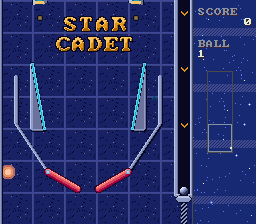
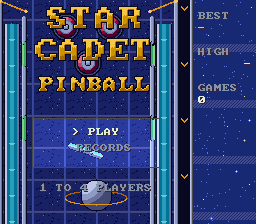
Star Cadet Pinball step 8: balance and release (aimable shots, no traps, missions that wait for the next ball, an aiming bot, new slingshot art, label, README row, playbook section 11)
Claude-Session: https://claude.ai/code/session_01Nc4JskrxPXMSXcsQP1Fakb

diff --git a/carts/src/star-cadet/code.js b/carts/src/star-cadet/code.js
@@ -646,7 +646,7 @@ function draw() {
   if (!inPlay && !menu) { bg(0, { show: false }); bg(1, { show: false }); }
   bg(2, { y: Math.round(clock * 0.25) });
   if (inPlay) drawPlay();
-  else if (menu) { drawTable(Math.round(208 + 208 * Math.sin(clock / 300))); drawMenuPanel(); if (state === 'title') drawTitle(); else drawPlayers(); }
+  else if (menu) { drawTable(Math.round(96 + 96 * Math.sin(clock / 300))); drawMenuPanel(); if (state === 'title') drawTitle(); else drawPlayers(); }
   else if (state === 'initials') drawInitials();
   else if (state === 'records') drawRecords();
   if (state === 'turn') drawTurn();

diff --git a/docs/carts/star-cadet.md b/docs/carts/star-cadet.md
@@ -1,7 +1,7 @@
 # Star Cadet Pinball: Cart Specification
 
-**Version:** 0.2 (spec agreed in outline)
-**Status:** Spec written; scaffolded, the game is still the starter's placeholder
+**Version:** 1.0
+**Status:** Built (steps 1 to 8), released in the Library
 **Cart source:** `carts/src/star-cadet/` → `carts/star-cadet.nova`
 
 ---
@@ -180,7 +180,7 @@ BG0 the table (a Map RAM scene of 24 x 80 tiles scrolled by the camera), BG1 the
 
 | Asset | Budget |
 |---|---|
-| Code | 49.8 KB of the 64 KB limit after step 7 (76%: the audio, the flow polish and the balance need a few KB more; `strip` and `mangle` in `meta.json` would give back about a fifth) (`node tools/check.js star-cadet`); `"strip": true` and `"mangle": true` in `meta.json` if it nears the limit |
+| Code | 52.2 KB of the 64 KB limit after step 8 (80%: the audio, the flow polish and the balance need a few KB more; `strip` and `mangle` in `meta.json` would give back about a fifth) (`node tools/check.js star-cadet`); `"strip": true` and `"mangle": true` in `meta.json` if it nears the limit |
 | Tiles | 848 of 1,024 after step 6: 465 of the 479 for the background (the floor 16, the decor and ramps about 400, the stars about 40: the table's 1,920 map cells share by repeating and flipping) and 383 of the 544 for sprites (136 of them the logo) |
 | Sprites | 45 of the 128 in OAM in play, at most 11 on a line (of 32): the ball, 2 flippers of 3 to 8 pieces, 3 bumpers, 2 slingshots of 8 pieces, 4 standups, 3 drops, the spinner, the plunger and its spring, up to 7 lamps with their glows. Up to 3 balls with the multiball |
 | ROM | the table's data if it is larger than a few KB |
@@ -325,6 +325,32 @@ Each step: build it, run `node tools/check.js star-cadet` and `node tools/test.j
   the mission (and goes back), the title and the demo have the title's song, the game over stops it, and it is not restarted every frame.
 - **Results:** 8 test files; the soak is clean; 18 of 35 effects and 2 of the 7 songs are heard in 8,000 frames of random buttons (the others need a rank or a mission: the tests play them).
   I cannot hear any of it: the numbers say it is quiet, clear of the music's lead and not piercing; whether it is pleasant is for a person to judge.
+
+### Step 8 built: balance and release
+
+The balance was done with two tools in `tests/carts/star-cadet/`: **`aim.mjs`**, which plays every flip once (a ball at rest on a flipper at each distance from the pivot, the flipper pressed) and
+lists what the ball hits, and **`missions.mjs`**, which plays each mission from its start at several skills. `bot.mjs` is now a player that cradles the ball on the raised flipper, lets it down and
+flips when it has rolled to the distance that sends it where the game wants (the lamps first, then a ramp into the gate; or the mission's objective); `skill` is the noise on that distance, a late
+reaction and a chance to miss. What they found, and the changes (the first numbers were the first draft's):
+
+- **No flip reached a ramp, an orbit or the gate.** The ramp mouths were where the geometry looked good; the shots land elsewhere (a left flipper's go up the right wall, the right one's up the left).
+  The ramps now start at the lanes (x 12 and 164, y 420) and take any ball hit up at 3.5 to 8.6 px a frame: **a window of 10 px of the flipper** (18 to 27 from the pivot). A faster ball flies over the
+  mouth and up the lane, an orbit (a 2 px window), which the guides, now down to y 410, keep in the lane. The gate was reachable only by chance (bumpers and the drop bank fill the middle): while it
+  is lit, or the mission needs it, **a ramp flies on into it**.
+- **Traps.** The bot found a ball standing still for three minutes in a V between a wire gate and an orbit guide; a test that puts a ball at rest on a grid of places (`09-traps.mjs`) and the bot found
+  two more (the lower wire gates against the longer guides; two slingshots bouncing a ball between them for ever, even at 5.5: **4.5** now). Slanted rails end clear of the walls.
+- **Ball life.** The bot's balls lived 10 to 60 seconds, which cannot finish a 75 second mission: **a lost ball puts a mission on hold** (its time, on the next ball; a multiball cannot be held), and the
+  clock stops while the ball waits at the plunger.
+- **Lamps and goals made reachable** (the bot hit the standups about three times a game): the standup targets are 22 px (not 14); the first lamp is two standup targets lit (or a full set), the second two
+  drop targets (or the bank); the missions are 10 bumper hits (75 s), three standups then three drop targets (90 s), three ramps (90 s), two orbits (90 s), three ramps then the gate (120 s), 30 spins (90 s; the
+  spinner gives a spin each 4 px, not 8), two gates (120 s), three jackpots (90 s) and the eleven shots (150 s). The attract mode ends after a minute.
+- **Results** (the bot, 4 tries each, at skill 0.5, 0.8 and 0.95; a four try table is noisy, and a bot is not a person): the first missions are completed most of the time (Launch Drill 100, 0 and 100 %,
+  Asteroid Belt 50, 0 and 75 %), the middle ones sometimes (Orbit Lock and Fuel Run 0, 0 and 100 %, Wormhole 75, 0 and 100 %), the multiball and the last one rarely: the shape of a climb. The 0 % at 0.8 is
+  one bad bot (it lets a ball fall between the flippers three times running); the 0.95 bot is as good as this bot gets. Nothing here is a person's feel: only a person can say whether 75 seconds for ten
+  bumper hits is generous or stingy, and everything is a constant at the top of `code.js` (`MISSIONS`, `LAMP_*`, `RAMP_*`, `SAVE_FRAMES`, `SLING_KICK`).
+- The slingshots were redrawn (a rubber band between two posts, red at rest and orange when hit), the title scrolls only over the top of the table (the floor's logo would sit behind the menu), and the
+  Library label is the title screen. `README.md` has the final row; `docs/dev/playbook.md` has a section 11 on what this game taught.
+- `tests/carts/star-cadet/09-traps.mjs` and the updated `06-missions.mjs` (the lamps by count, a ramp into the gate, a mission on hold, the new goals) are new; 9 test files in all.
 
 ## 16. Open questions
 
